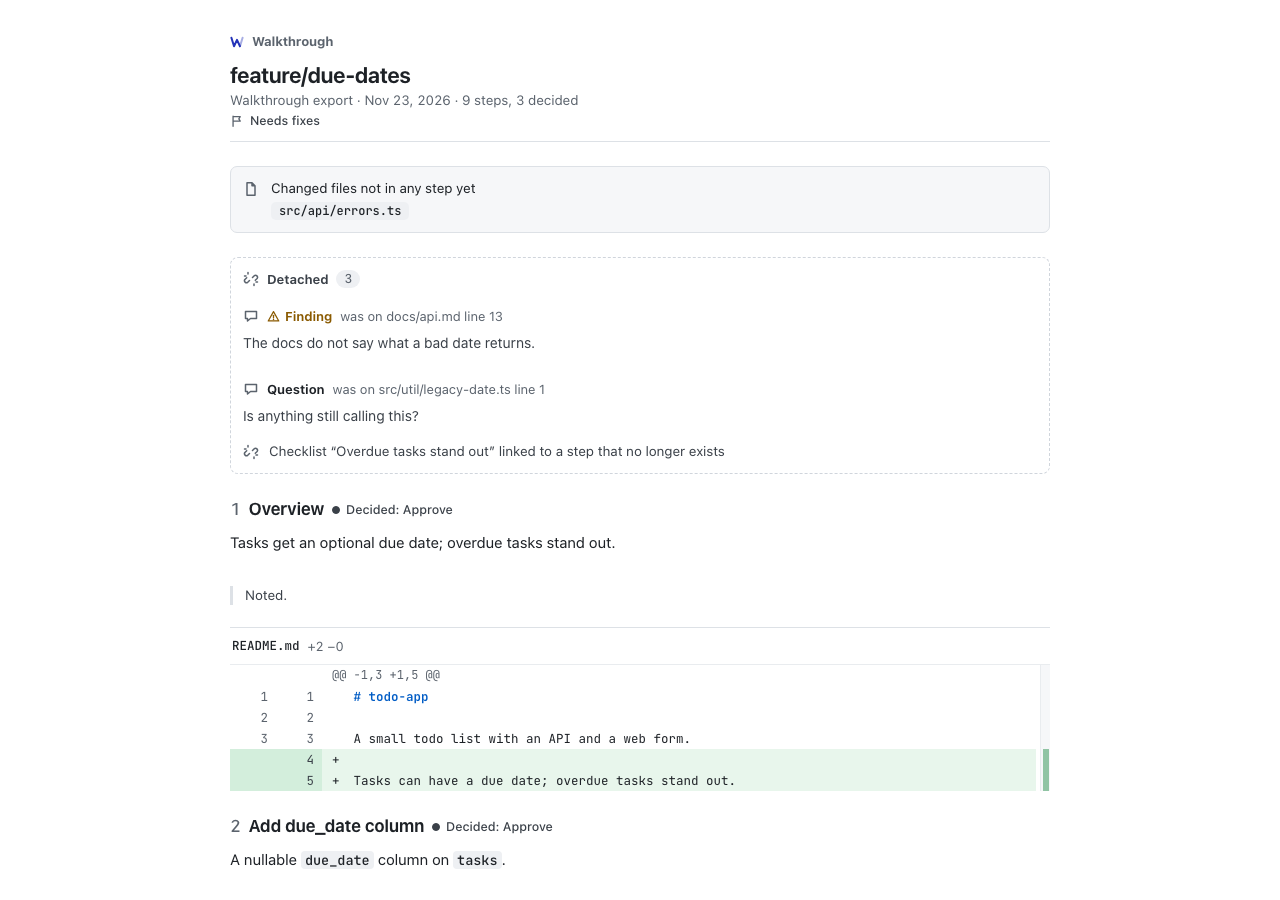
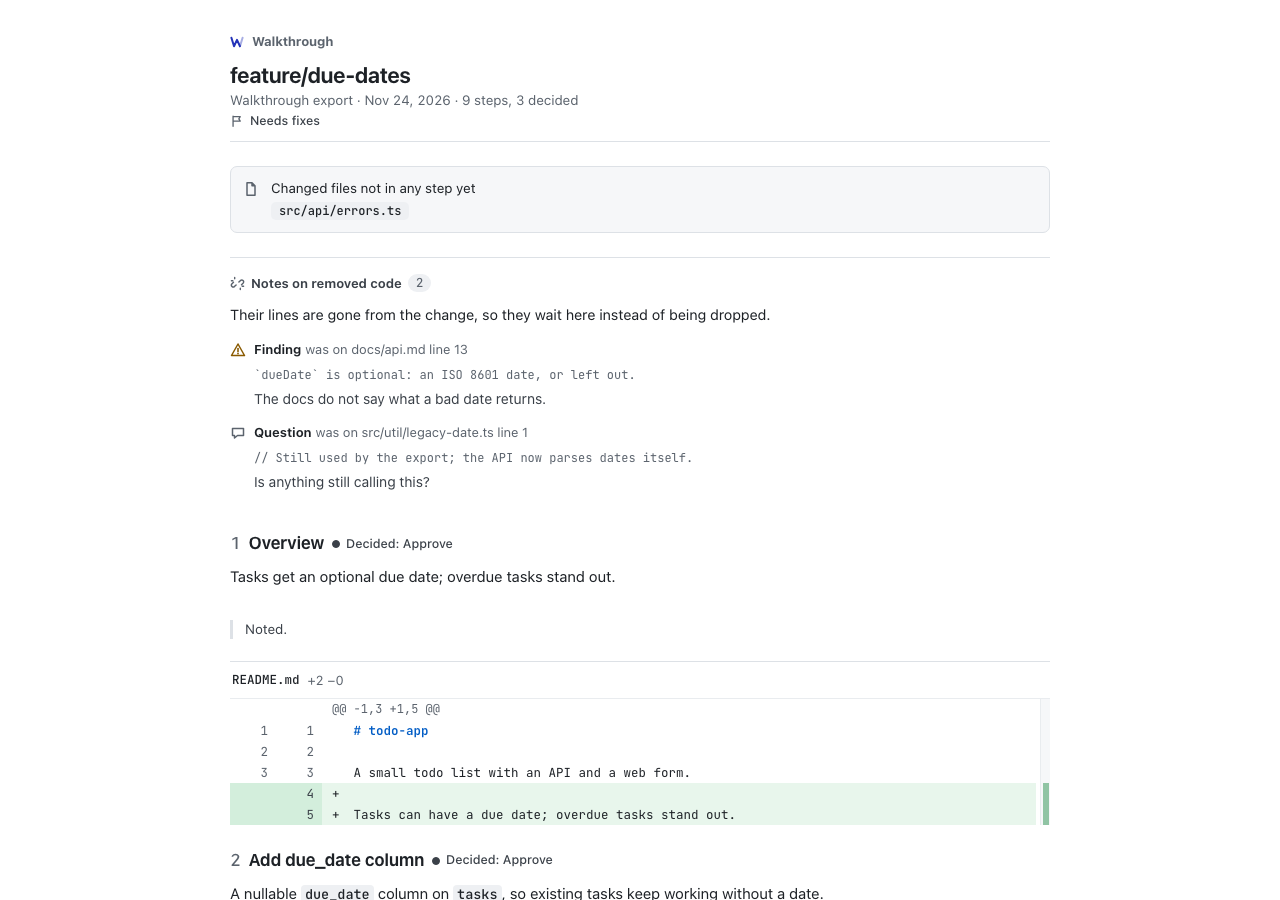
The README shows the round 3 page
Its screenshots are retaken from the built page with the board's sample: the ink stepper, the Session status, End session, a step with a finding and a note, a step being checked, Files to skim and Session messages in the queue.
It describes the Summary as the ledger with the verdict rail, names files to skim, and lists the checking command.

Changed region(s): [[0.1562, 0.28, 0.6562, 1.0], [0.8125, 0.84, 0.8438, 0.9022]]

diff --git a/README.md b/README.md
@@ -81,7 +81,7 @@ Uncommitted edits are left out, with a warning, and nothing is ever checked out.
    Each step is a part of the change with its diff and the session's explanation, in reading order.
    What the session assumed rather than read is listed separately.
    Beside the explanation, "In this step" lists the step's files, counts its findings, notes and your comments, and shows the checklist items it touches.
-   Files nobody writes by hand go into a folded step, each with the reason it was folded.
+   Files nobody writes by hand go into a folded step of files to skim, each with the reason it was folded.
    Each file collapses from its header; large files start collapsed, and marking a file Viewed collapses it too, which is never a decision.
 2. **Notes.**
    The session pins findings, answers and drafts to a step or to lines in it.
@@ -107,7 +107,7 @@ Uncommitted edits are left out, with a warning, and nothing is ever checked out.
    After a decision, Undo takes it back, and the session gets that too.
    Any decision stays changeable until the end, and an undecided item never reads as approved.
 8. **Summary and verdict.**
-   The last entry of the queue, or Finish review in the header (G S), is the Summary: your decisions by label, flags with their notes, your comments, the comments the session drafted (`[AI]` drafts) you accepted, edited or dropped, the checklist, and what is still open, listed as undecided or changed since you decided.
+   The last entry of the queue, or Finish review in the header (G S), is the Summary: every step with what you decided, what is still open first (undecided, being checked or changed since you decided), your flag notes and comments under their steps, the comments the session drafted (`[AI]` drafts) you accepted, edited or dropped, and beside it the verdict, the finishing actions and the checklist.
    You choose your verdict there, from the choices your policy offers, such as Approve, Request changes or Comment on a review request.
    Until then the walkthrough reads "No verdict yet", and the finishing action, such as sending the fix list to the session or sending your review, waits for it.
    Once chosen, the verdict shows quietly in the header, on the list of walkthroughs and in the export.
@@ -200,6 +200,7 @@ The session runs the `walkthrough` CLI for you, so you rarely type it yourself.
 | `start` | Starts or resumes a walkthrough of the current branch, or of `--base <rev> --head <rev> --label <text>`, and opens its page; `--kind <label>` names its kind for the page, and `--comments <text>` says what becomes of your comments. |
 | `files` | Lists the changed files. |
 | `steps`, `note`, `checklist`, `actions` | Record what the session wrote, from a file in the walkthrough's inbox (`--file`) or standard input. |
+| `checking` | Records the steps the session is still checking; the page holds their decisions until it is done. |
 | `listen` | Waits in the background for what you do on the page. |
 | `say` | Puts the session's answer, question or note on the page. |
 | `policy` | Says whether your review policy is missing, the unchanged template or your own; `show`, `init` and `save --file` print, create and replace it. |
